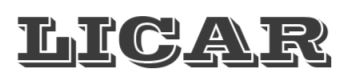
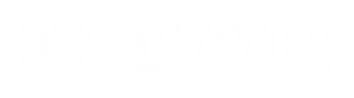
upda

diff --git a/src/RealView.java b/src/RealView.java
@@ -52,8 +52,8 @@ public class RealView extends View {
     
     private final int CONNECTION_PANEL_HEIGHT = 100;
     private final int CONNECTION_PANEL_WIDTH = 200;
-    private final int CONNECTION_PANEL_X = 10;
-    private final int CONNECTION_PANEL_Y = 10;
+    private final int CONNECTION_PANEL_X = getWidth() - CONNECTION_PANEL_WIDTH - 10;
+    private final int CONNECTION_PANEL_Y = getHeight() - CONNECTION_PANEL_HEIGHT - 10;
 
     private final int MOVEMENT_PANEL_WIDTH = 250;
     private final int MOVEMENT_PANEL_HEIGHT = 100;